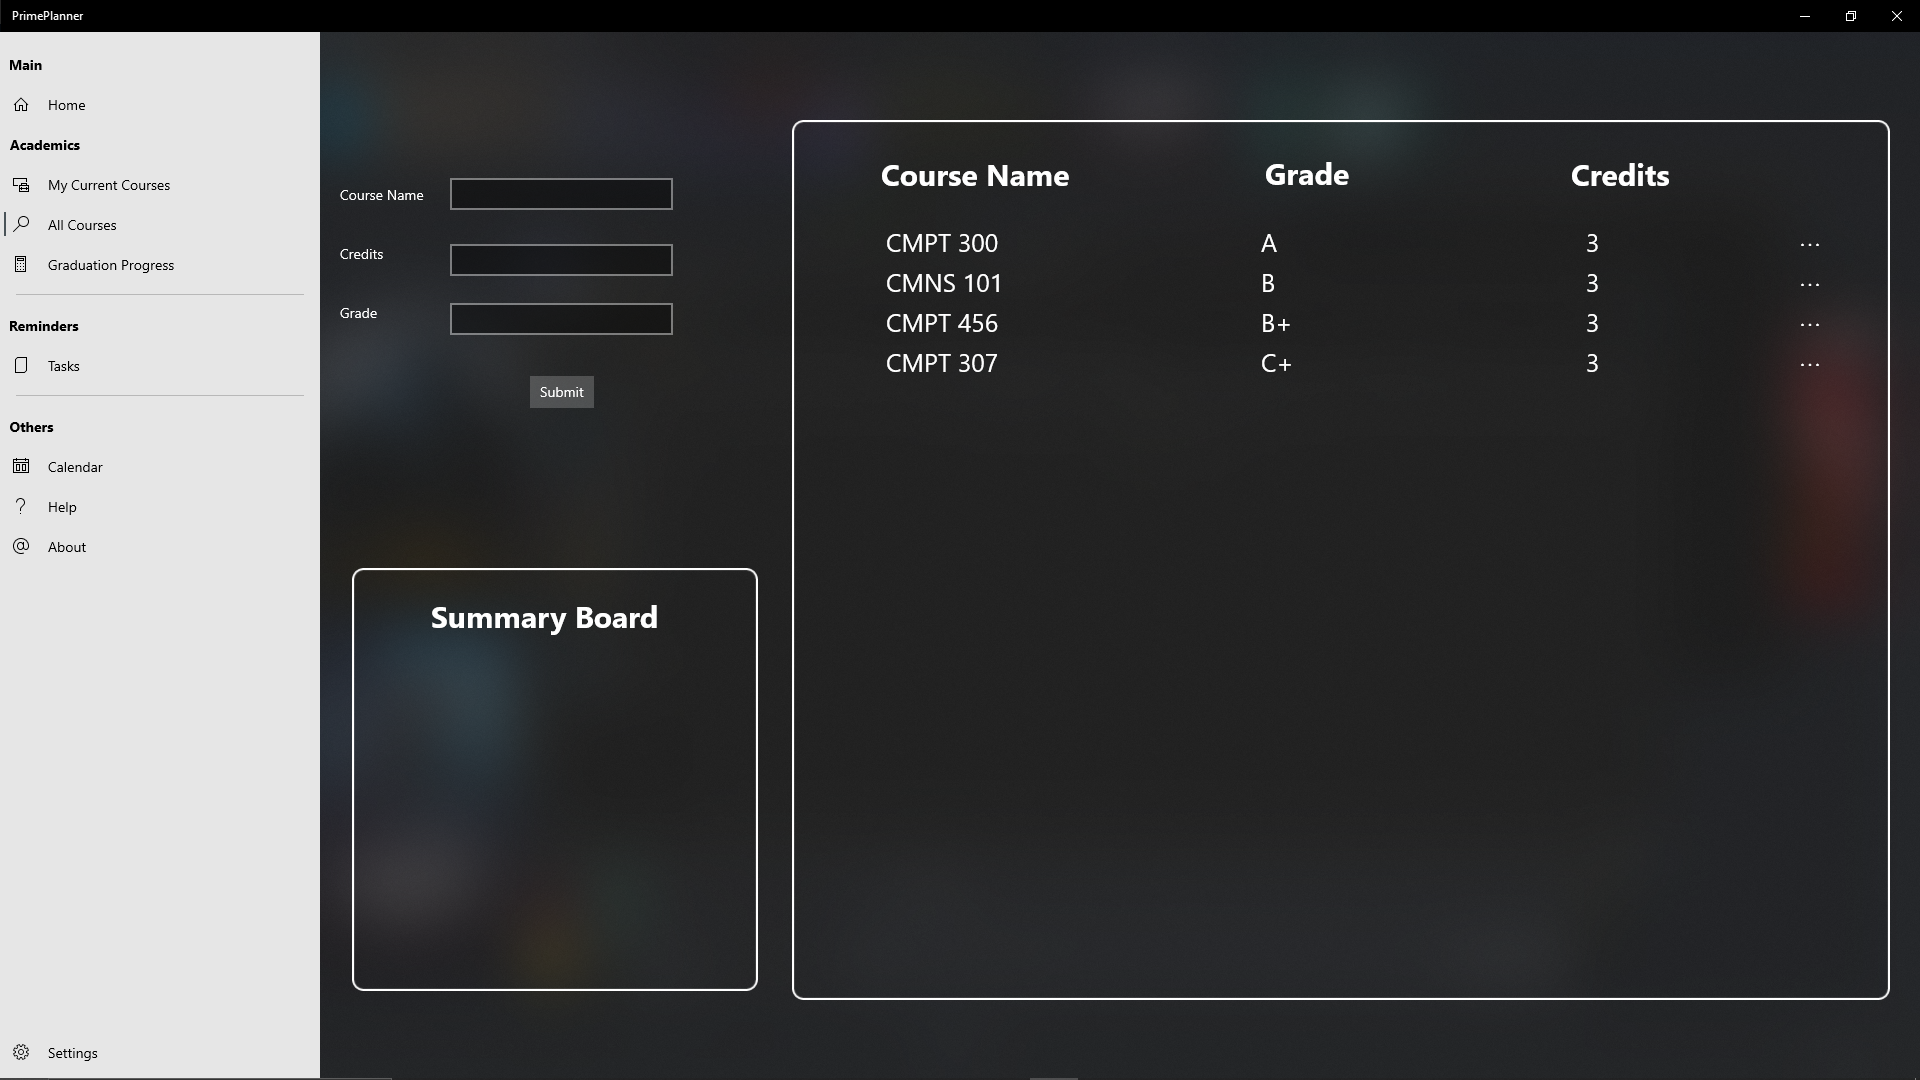
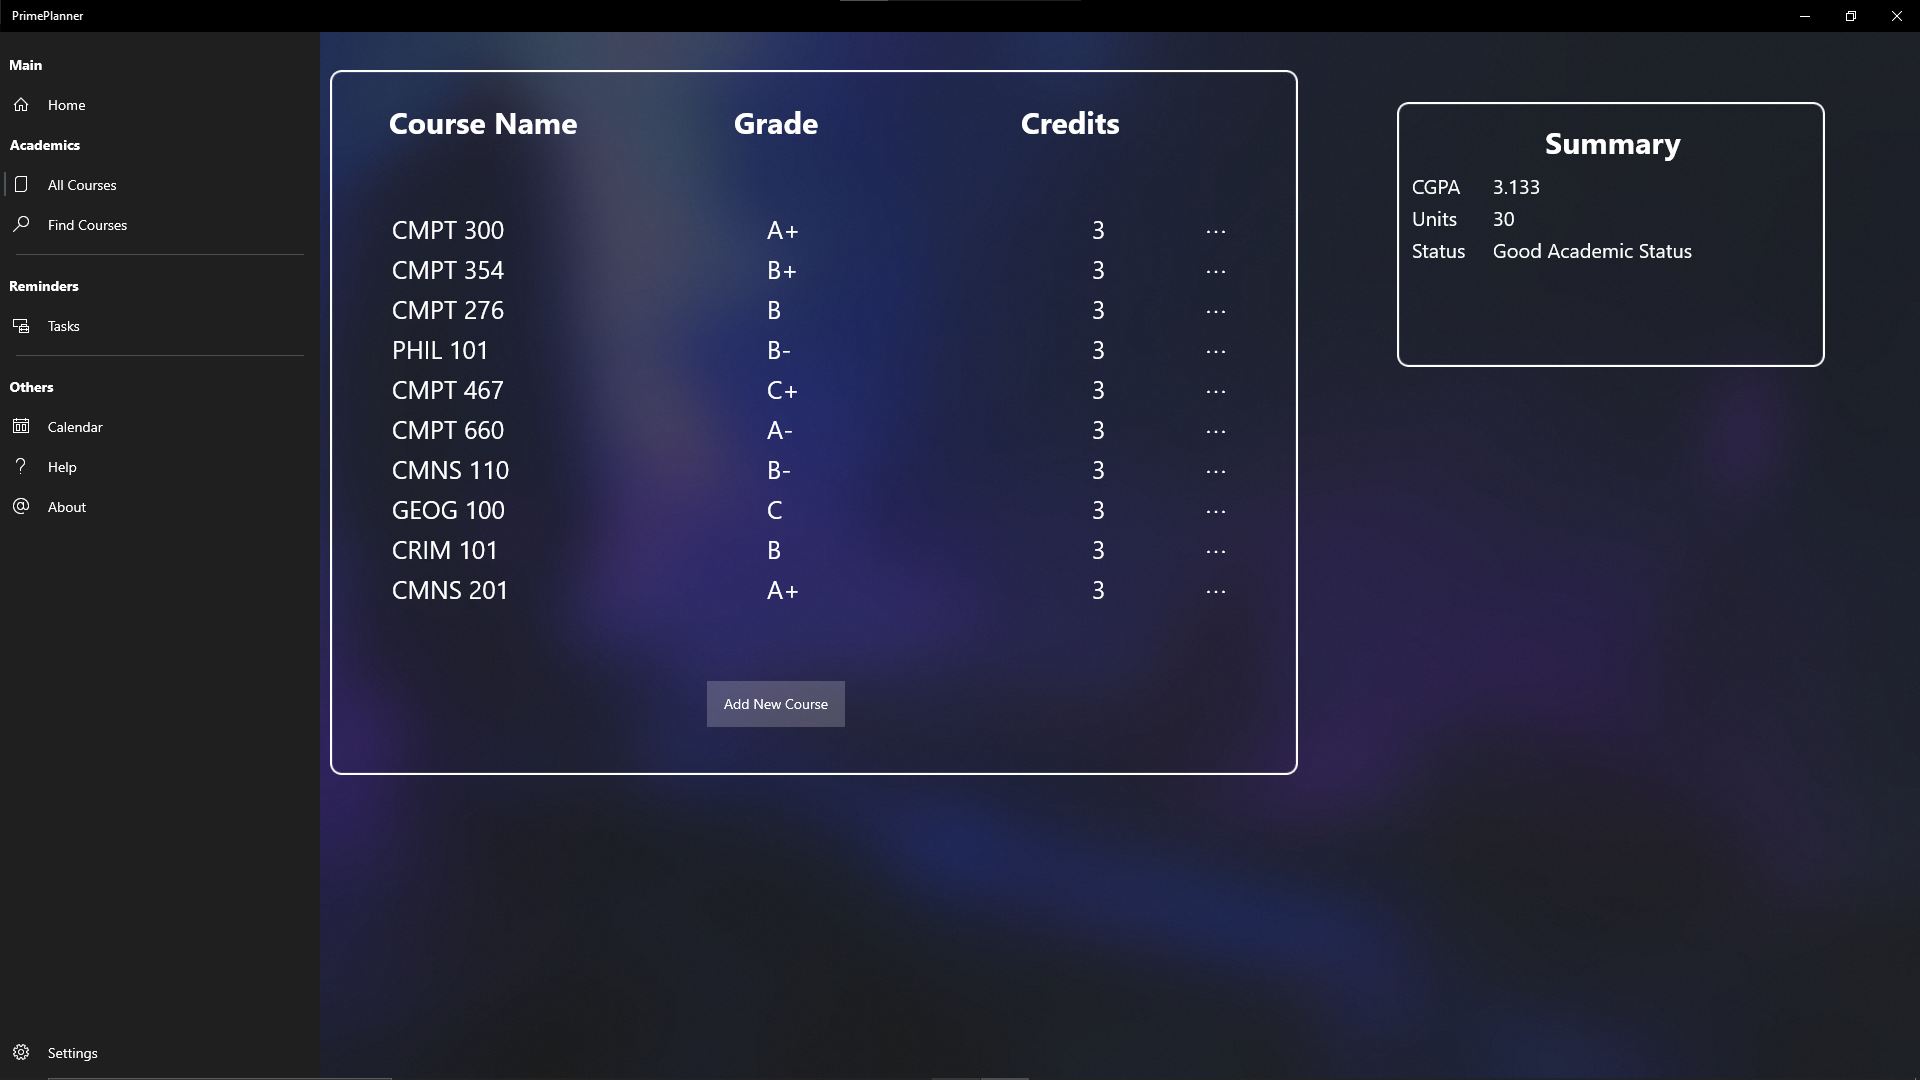
added latest screenshots of app

diff --git a/PrimePlanner/Pages/CourseInfo.xaml b/PrimePlanner/Pages/CourseInfo.xaml
@@ -6,7 +6,7 @@
     xmlns:d="http://schemas.microsoft.com/expression/blend/2008"
     xmlns:mc="http://schemas.openxmlformats.org/markup-compatibility/2006"
     mc:Ignorable="d"
-    Background="{ThemeResource ApplicationPageBackgroundThemeBrush}">
+    Background="{ThemeResource SystemControlAcrylicWindowMediumHighBrush}" RequestedTheme="Dark">
 
     <Grid>
         <Button x:Name="BackButton"
@@ -18,7 +18,7 @@
         <TextBlock Text="Calendar Description" FontSize="25" FontFamily="Bold" HorizontalAlignment="Left" Margin="58,115,0,0" TextWrapping="Wrap" VerticalAlignment="Top" Height="48" Width="314"/>
         <TextBlock x:Name="calendarDescription" FontSize="20" HorizontalAlignment="Left" Margin="58,150,0,0" TextWrapping="Wrap" VerticalAlignment="Top" Height="Auto" Width="Auto"/>
 
-        <TextBlock Text="Couse Details" FontSize="25" FontFamily="Bold" HorizontalAlignment="Left" Margin="58,260,0,0" TextWrapping="Wrap" VerticalAlignment="Top" Height="Auto" Width="Auto"/>
+        <TextBlock Text="Couse Details" FontSize="25" FontFamily="Bold" HorizontalAlignment="Left" Margin="58,308,0,0" TextWrapping="Wrap" VerticalAlignment="Top" Height="Auto" Width="Auto"/>
         <TextBlock x:Name="courseDetails" FontSize="20" HorizontalAlignment="Left" Margin="58,343,0,0" TextWrapping="Wrap" VerticalAlignment="Top" Height="Auto" Width="Auto"/>
 
         <TextBlock Text="Topics" FontSize="25" FontFamily="Bold" HorizontalAlignment="Left" Margin="58,500,0,0" TextWrapping="Wrap" VerticalAlignment="Top" Height="48" Width="314"/>

diff --git a/PrimePlanner/Pages/AllCourses.xaml b/PrimePlanner/Pages/AllCourses.xaml
@@ -55,7 +55,7 @@
         <TextBlock FontSize="30" Foreground="White" Margin="414,70,996,887" FontWeight="Bold" Text="Grade" TextWrapping="Wrap"/>
         <TextBlock FontSize="30" Foreground="White" Margin="701,70,677,875" FontWeight="Bold" Text="Credits" TextWrapping="Wrap"/>
         <Border x:Name="CourseBoard_Copy" CornerRadius="10" Background="Transparent"  BorderBrush="White"  BorderThickness="2" Margin="1077,70,95,713" RenderTransformOrigin="0.514,0.51"/>
-        <Border x:Name="CourseBoard_Copy1" CornerRadius="10" Background="Transparent"  BorderBrush="White"  BorderThickness="2" Margin="1016,356,35,305" RenderTransformOrigin="0.496,0.5"/>
+        <!--<Border x:Name="CourseBoard_Copy1" CornerRadius="10" Background="Transparent"  BorderBrush="White"  BorderThickness="2" Margin="1016,356,35,305" RenderTransformOrigin="0.496,0.5"/>-->
         <Button x:Name="AddNewCourseButton" Click="Add_Course_Button_Click"  Content="Add New Course" Margin="387,649,0,0" VerticalAlignment="Top" Height="46" Width="138"/>
         <TextBlock TextAlignment="Center" FontSize="30" Foreground="White" Margin="1173,90,187,865" FontWeight="Bold" Text="Summary" TextWrapping="Wrap"/>
         <TextBlock FontSize="20" Foreground="White" Margin="1092,140,345,834" Text="CGPA" TextWrapping="Wrap"/>

diff --git a/PrimePlanner/Pages/MainPage.xaml b/PrimePlanner/Pages/MainPage.xaml
@@ -13,7 +13,7 @@
             <ColumnDefinition Width="Auto"/>
             <ColumnDefinition Width="*"/>
         </Grid.ColumnDefinitions>
-        <NavigationView x:Name="mainNavigationPane" IsPaneToggleButtonVisible="False" ItemInvoked="mainNavigationPane_ItemInvoked" PaneTitle="Educational Planner" IsPaneVisible="True" IsBackButtonVisible="Collapsed" PaneDisplayMode="Left">
+        <NavigationView x:Name="mainNavigationPane" RequestedTheme="Dark" IsPaneToggleButtonVisible="False" ItemInvoked="mainNavigationPane_ItemInvoked" PaneTitle="Educational Planner" IsPaneVisible="True" IsBackButtonVisible="Collapsed" PaneDisplayMode="Left">
             <NavigationView.MenuItems>
                 <NavigationViewItemHeader Content="Main"/>
                 <NavigationViewItem Content="Home" Icon="Home"/>

diff --git a/PrimePlanner/Pages/Tasks.xaml b/PrimePlanner/Pages/Tasks.xaml
@@ -63,7 +63,7 @@
             <ListView.ItemTemplate>
                 <DataTemplate>
                     <Grid>
-                        <Border CornerRadius="10" Height="170"  Width="360" Background="LightGray"  BorderBrush="Brown"  BorderThickness="1.5">
+                        <Border CornerRadius="10" Height="170"  Width="360" Background="LightGray"  BorderBrush="Black" Margin="28,0,0,0" BorderThickness="1.5">
                             <Grid>
                                 <TextBlock Foreground="Black"  FontSize="20" FontWeight="Bold" TextWrapping="Wrap" Text="{Binding Title}" MinWidth="220" MinHeight="150" Margin="10,10,0,0"/>
                                 <TextBlock Foreground="Black"  TextWrapping="Wrap" Text="{Binding Task}" Margin="10,50,0,0"/>

diff --git a/PrimePlanner/Pages/FindCourses.xaml b/PrimePlanner/Pages/FindCourses.xaml
@@ -6,7 +6,7 @@
     xmlns:d="http://schemas.microsoft.com/expression/blend/2008"
     xmlns:mc="http://schemas.openxmlformats.org/markup-compatibility/2006"
     mc:Ignorable="d"
-    Background="{ThemeResource ApplicationPageBackgroundThemeBrush}">
+    Background="{ThemeResource SystemControlAcrylicWindowMediumHighBrush}" RequestedTheme="Dark">
 
     <Grid>
         <ListView x:Name="listOfSections" ItemsSource="{Binding entries}" Margin="59,344,109,75" IsItemClickEnabled="True" ItemClick="listOfCourses_ItemClick" RenderTransformOrigin="0.509,0.485">

diff --git a/PrimePlanner/Dialogs/ToDoAdd.xaml b/PrimePlanner/Dialogs/ToDoAdd.xaml
@@ -11,7 +11,7 @@
     SecondaryButtonText="Cancel"
     PrimaryButtonClick="ContentDialog_PrimaryButtonClick"
     SecondaryButtonClick="ContentDialog_SecondaryButtonClick"
-    RequestedTheme="Light">
+    RequestedTheme="Dark">
     <Grid>
         <Grid.ColumnDefinitions>
             <ColumnDefinition Width="91*"/>

diff --git a/README.md b/README.md
@@ -6,4 +6,6 @@ Testing
 An Education Planner tailored for SFU Students with Functionalities of Listing Courses and Taking Notes/Reminders 
 
 ![GitHub Logo](/Screenshots/Courses.png)
+![GitHub Logo](/Screenshots/CourseSearch.png)
 ![GitHub Logo](/Screenshots/ToDo.png)
+![GitHub Logo](/Screenshots/CourseInfo.png)
